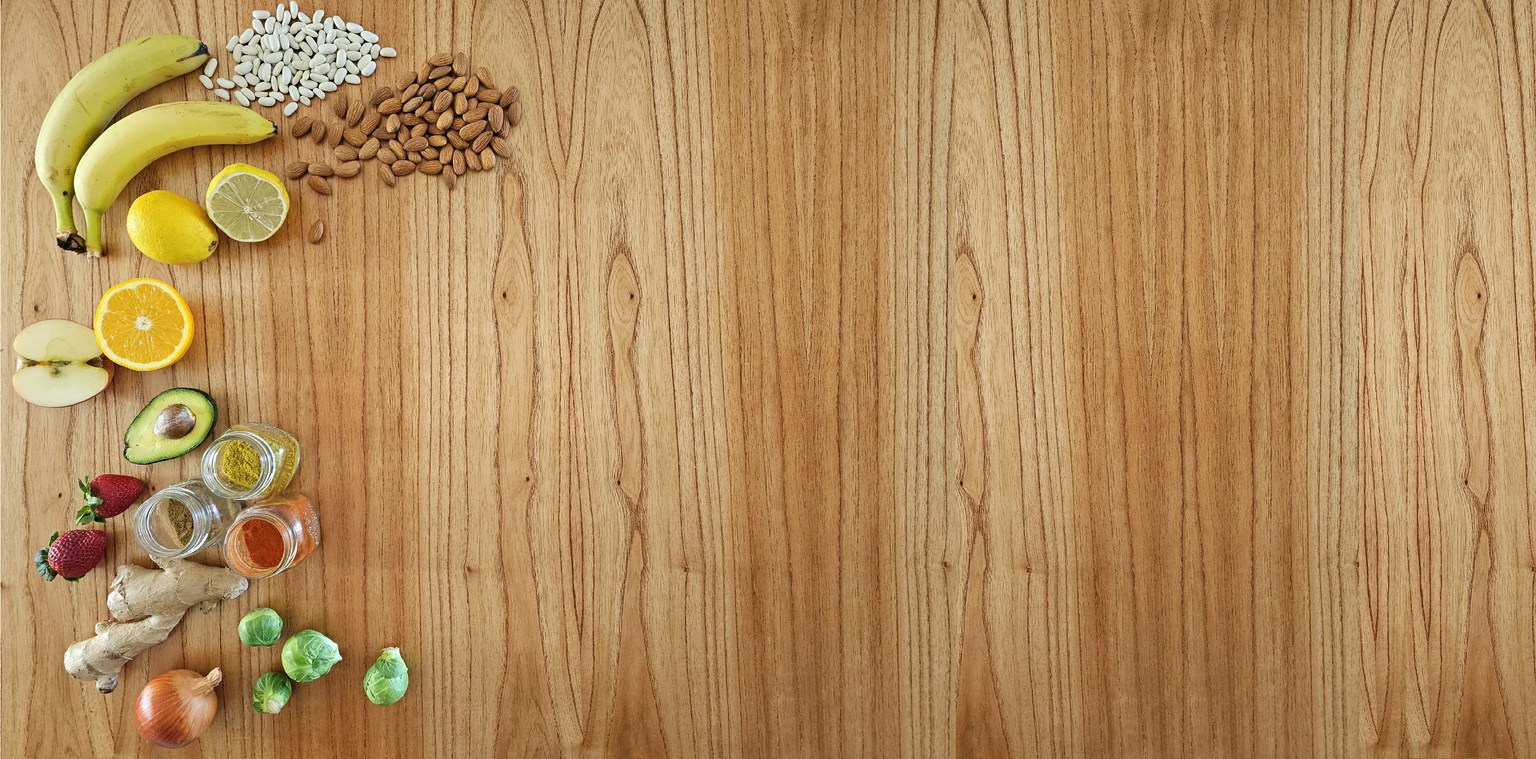
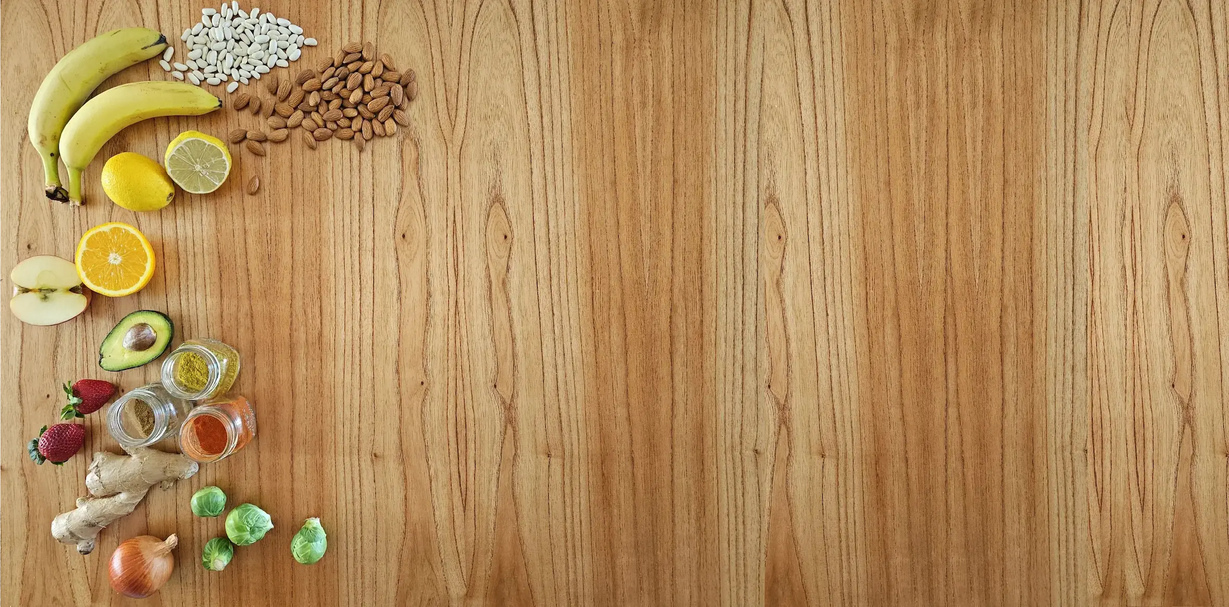
Move Hero to Next instead of css

diff --git a/components/Hero.jsx b/components/Hero.jsx
@@ -2,6 +2,7 @@
 
 import { useRef } from "react";
 import { useInView, motion } from "framer-motion";
+import Image from "next/image";
 import Button from "./common/Button";
 import AnimatedText from "./AnimatedText";
 
@@ -31,9 +32,23 @@ const Hero = ({ title, message }) => {
 
   return (
     <div
-      className="hero-img relative mb-12 flex h-screen items-start justify-end overflow-hidden bg-cover bg-fixed pt-24 md:items-center md:pt-0"
+      className="relative mb-12 flex h-screen items-start justify-end overflow-hidden pt-24 md:items-center md:pt-0"
       ref={ref}
     >
+      <div className="absolute inset-0 -z-10 [clip-path:inset(0)]">
+        <div className="fixed inset-0 h-screen w-full">
+          <Image
+            src="/assets/images/Hero.webp"
+            alt="Imágen Hero de fondo"
+            fill
+            priority
+            quality={85}
+            className="object-cover"
+            sizes="100vw"
+          />
+        </div>
+      </div>
+
       {/* Main Glassmorphism Card */}
       <div className="relative z-2 flex w-full justify-center lg:justify-end lg:pr-20">
         <div className="group flex max-w-[90%] flex-col items-center rounded-2xl border border-white/50 bg-white/55 p-4 text-center shadow-2xl backdrop-blur-md transition-all duration-500 hover:-translate-y-1 hover:bg-white/50 hover:shadow-[0_20px_50px_rgba(0,0,0,0.15)] lg:max-w-2xl xl:max-w-3xl xl:p-6 2xl:p-10">

diff --git a/styles/global.css b/styles/global.css
@@ -100,10 +100,6 @@
   }
 }
 
-.hero-img {
-  background-image: url("/assets/images/Hero.webp");
-}
-
 .text-main-color {
   color: var(--color-primary-color-700);
 }
